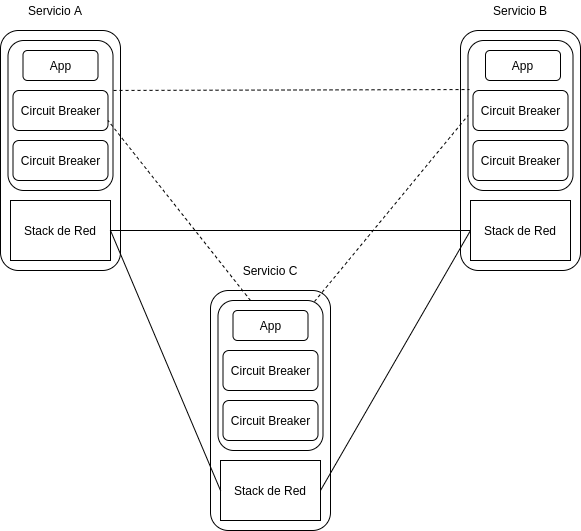
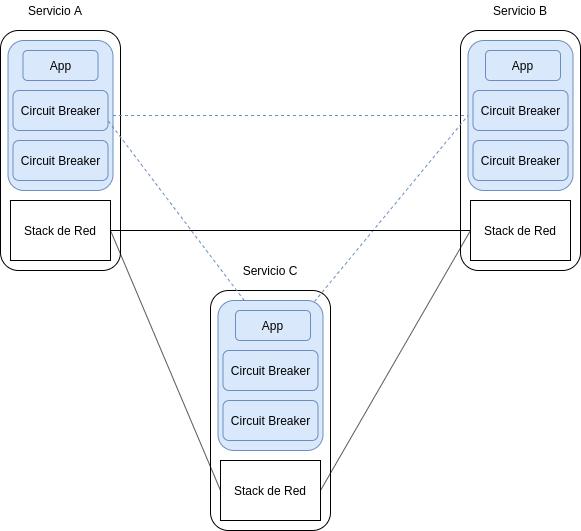
Finish service mesh

diff --git a/service_mesh.md b/service_mesh.md
@@ -52,6 +52,63 @@ Estos son patrones re simples que nos permiten tener mas confiabilidad en la int
 
 These are great simple devices to add more reliability to interactions between your services. Nevertheless, just like everything else they tend to get much more complicated as the level of distribution increases. The likelihood of something going wrong in a system raises exponentially with distribution, so even simple things like “some kind of monitor alert if the circuit breaker trips” aren’t necessarily straightforward anymore. One failure in one component can create a cascade of effects across many clients, and clients of clients, triggering thousands of circuits to trip at the same time. Once more what used to be just a few lines of code now requires loads of boilerplate to handle situations that only exist in this new world.
 
+De hecho, los ejemplos enumerados anteriormente pueden ser tan difíciles de implementar correctamente que las bibliotecas grandes y sofisticadas como [Finagle](https://twitter.github.io/finagle/) entre otras se han hecho para evitar reescribir la misma lógica o solucion de estos ejemplos una y otra vez en distintos modulos del sistema.
+
+Entonces ahora podemos tener nuestra aplicacion de alguna manera separado de nuestra biblioteca pero aun en el mismo servicio x..
+
+<img src="{{site.relative_url}}/images/service_mesh/1.png" class='center'>
+
+Esta arquitectura de microservicios fue inicialmente utilizada por varias organizaciones que fueron pioneras de este tipo de arqutecturas como Twitter o Soundcloud. A medida que la cantidad de servicios aumento se empezo a ver de a poco las desventajas de esta solucion. La mayor limitante es que a medida que aumentan los servicios, se necesita una mayor cantidad de recursos, en terminos de ingenieros/desarrolladores para construir y de alguna manera "pegar" estas librerias en los servicios nuevos y mantenerlos tambien. Por lo que entre un 10-15% de los recursos se tienen que invertir en "pegar" y mantener estas librerias.
+
+Otra desventaja un poco viene por el lado de la libreria puede llegar a atarse al runtime y lenguajes tambien que se pueden usar en los microservicios. Porque es muy probable que estas librerias esten escritas en una plataforma en particular, por ejemplo Finagle esta escrito en Scala para la JVM, por lo que en el caso que se quiera agregar un nuevo servicio y quiere usarse esta libreria, se debe o bien ajustarse a la plataforma en la que estamos usando la libreria o usar un port o alguna libreria alternativa que nos resuelva el mismo problema.
+
+### Mas alla de los microservicios
+
+De manera similar a lo que vimos en el stack de la red, sería altamente deseable extraer las características requeridas por los servicios distribuidos masivamente en una plataforma subyacente.
+
+Las empresas escriben aplicaciones y servicios sofisticados utilizando protocolos de nivel superior como HTTP sin siquiera pensar en cómo TCP controla los paquetes en su red. Esta situación es lo que necesitamos para los microservicios, donde los ingenieros que trabajan en servicios pueden centrarse en su lógica de negocios y evitar perder tiempo escribiendo su propio código de infraestructura de servicios o administrando bibliotecas y marcos en toda la flota de microservicios.
+
+Entonces nuestro diagrama vendria a quedar de esta manera..
 
 <img src="{{site.relative_url}}/images/service_mesh/2.png" class='center'>
+
+Pero esto no es tan trivial, agregar otro stack de la red involucra tambien que haya una interaccion entre la capa que antes era nuestra libreria y la superior, teniendo que ajustarlo o bien a un formato estandar sin tener que acoplarlo a la aplicacion, que haria que no fuese posible que se use a traves de varios servicios distintos.
+
+Hay una solucion alternativa que es la de implementar esto mismo pero a partir de un componente *proxy*. Por lo que un servicio no se conecta directamente con las dependencias sino que pasara todo su trafico a traves de otro modulo que agrega de manera transparente estas soluciones como el Circuit Breaker, Service Discovery, etc..
+
+Esto empezo a aparecer por primera vez con este articulo de [Airbnb](https://medium.com/airbnb-engineering/smartstack-service-discovery-in-the-cloud-4b8a080de619) en donde se describia a este servicio proxy como algo llamado *sidecar*. Un año despues Netflix hace algo muy similar pero para aplicaciones que no son basadas en la JVM, que es su implementacion de un sidecar llamado [Prana](https://medium.com/netflix-techblog/prana-a-sidecar-for-your-netflix-paas-based-applications-and-services-258a5790a015)
+
+
+<img src="{{site.relative_url}}/images/service_mesh/3.png" class='center'>
+
+Con el aumento de las arquitecturas basadas en microservicios, se siguio avanzando con esta arquitectura basada en proxies, y llegaron a aparecer en poco tiempo implementaciones de proxy que son lo suficientemente flexibles para adaptarse a distintos servicios y preferencias. Uno de los primeros fue [Linkerd](https://buoyant.io/2016/02/18/linkerd-twitter-style-operability-for-microservices/), creado por Twitter, y mas tarde por otra implementacion mas conocida hoy en dia llamado [Envoy](https://eng.lyft.com/announcing-envoy-c-l7-proxy-and-communication-bus-92520b6c8191)
+
+
+## Service Mesh
+
+El modelo de Service Mesh consiste en que, cada uno de sus servicios tendrá un sidecar proxy complementario. Dado que los servicios se comunican entre sí solo a través del proxy de sidecar, terminamos con una implementación similar al diagrama a continuación:
+
+<img src="{{site.relative_url}}/images/service_mesh/service-mesh.png" class='center iasc-image'>
+
+Una definicion un poco mas formal lo podemos ver en lo que escribio [*William Morgan* de Buoyant en 2017](https://buoyant.io/2017/04/25/whats-a-service-mesh-and-why-do-i-need-one/)
+
+<cite cite="William Morgan">
+A service mesh is a dedicated infrastructure layer for handling service-to-service communication. It’s responsible for the reliable delivery of requests through the complex topology of services that comprise a modern, cloud native application. In practice, the service mesh is typically implemented as an array of lightweight network proxies that are deployed alongside application code, without the application needing to be aware.
+</cite>
+
+Probablemente el aspecto más importante de su definición es que se aleja de pensar en los proxies como componentes aislados y reconoce en que la red que forman es algo valioso en sí mismo.
+
+A medida que las organizaciones trasladan sus implementaciones de microservicios a deployments más sofisticados como Kubernetes, las personas y las organizaciones han comenzado a usar las herramientas disponibles por esas plataformas para implementar esta idea de un service mesh correctamente. Se están alejando de un conjunto de servidores proxy independientes que trabajan de forma aislada a un plano de control, o sea algo centralizado.
+
+<img src="{{site.relative_url}}/images/service_mesh/service-mesh-generic-topology_social.png" class='center iasc-image'>
+
+Viendo un poco nuestro diagrama de arriba,vemos que el tráfico real del servicio todavía fluye de proxy a proxy directamente, pero el plano de control conoce cada instancia de proxy. El plano de control permite a los proxies implementar cosas como el control de acceso y la recopilación de métricas, lo que requiere cooperación..
+
+Otro diagrama un poco mas detallado de plano de control (*Control Plane*) puede verse como el siguiente:
+
+
+<img src="{{site.relative_url}}/images/service_mesh/control_plane.png" class='center iasc-image'>
+
+El proyecto que nos permite un poco utilizar el plano de control se llama [Istio](https://istio.io/) y es por el momento la herramienta mas utilizada y conocida para implementar el plano de control.
+
 
